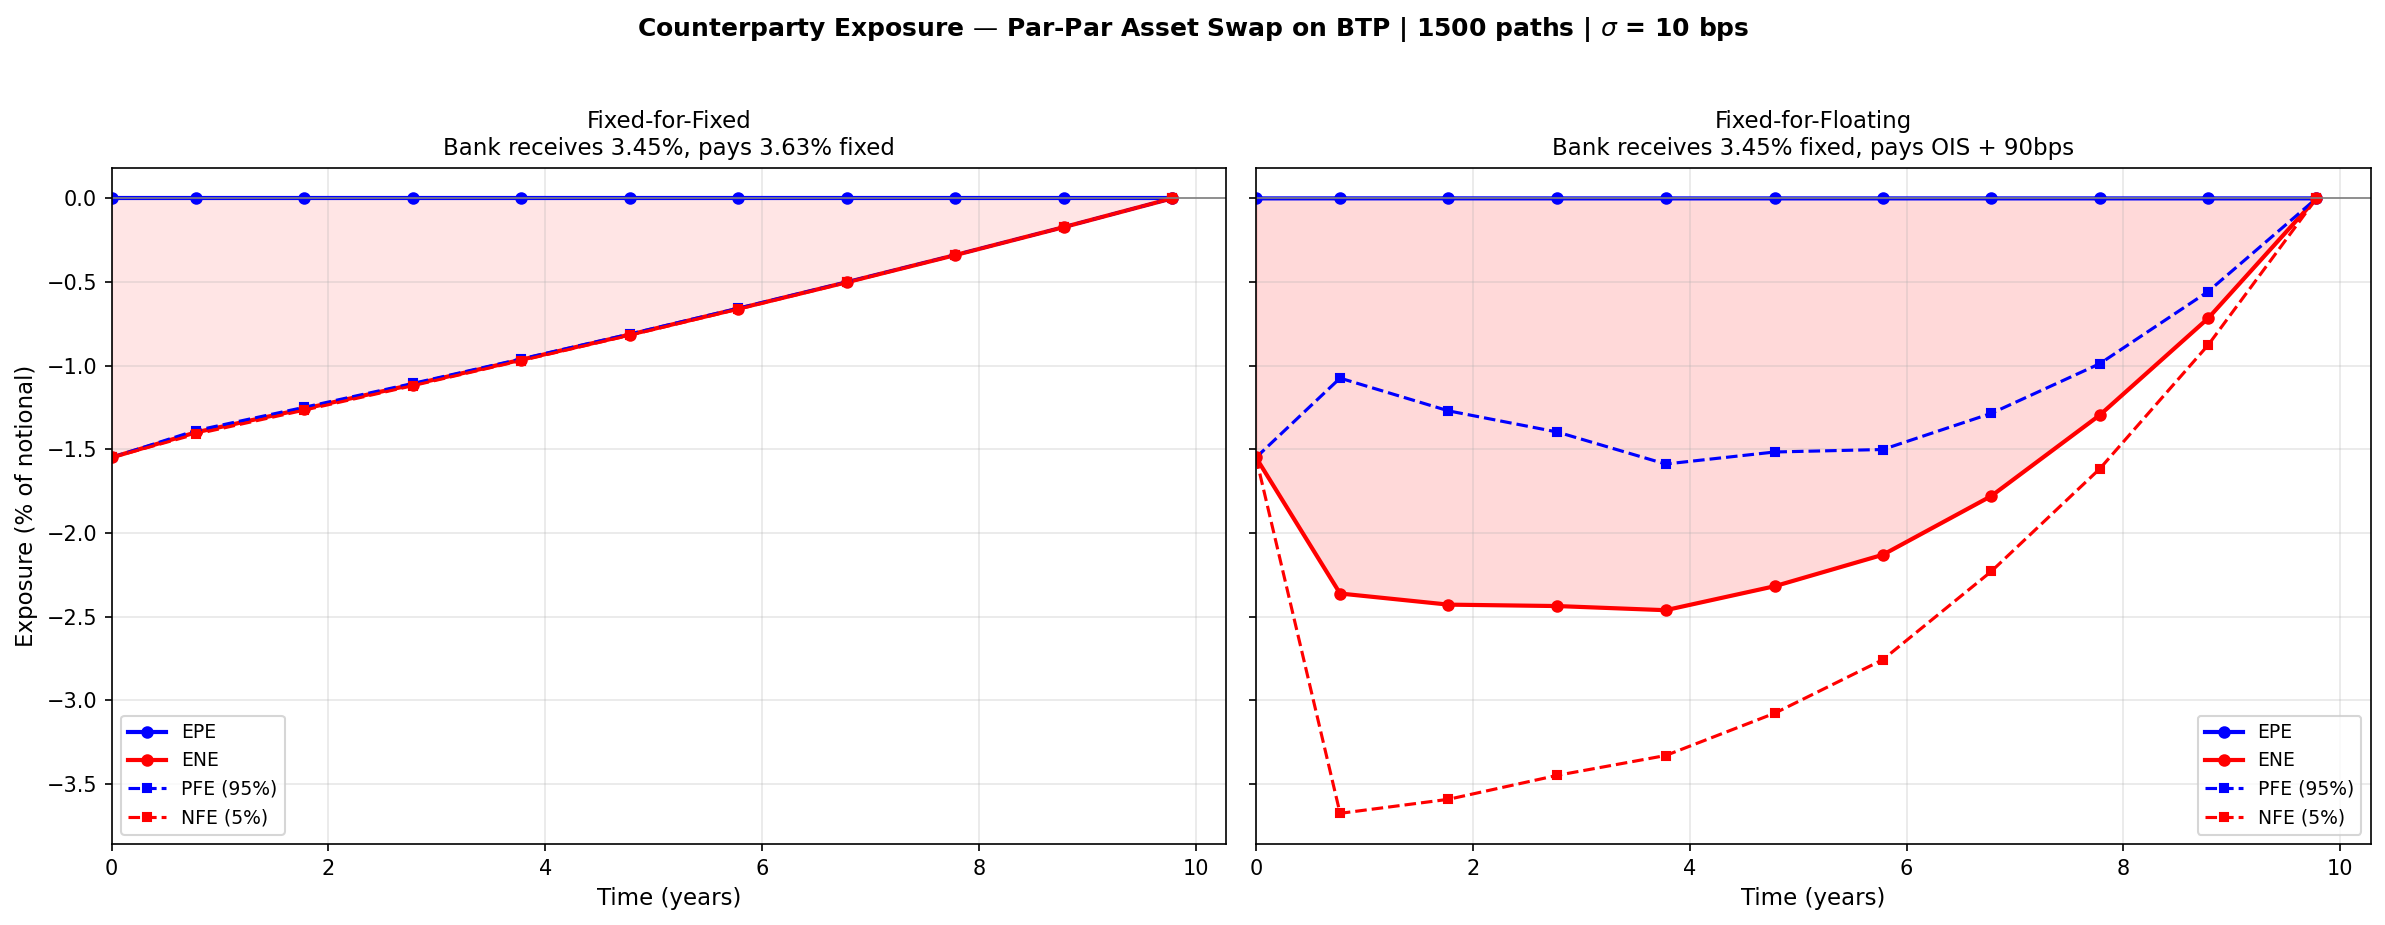
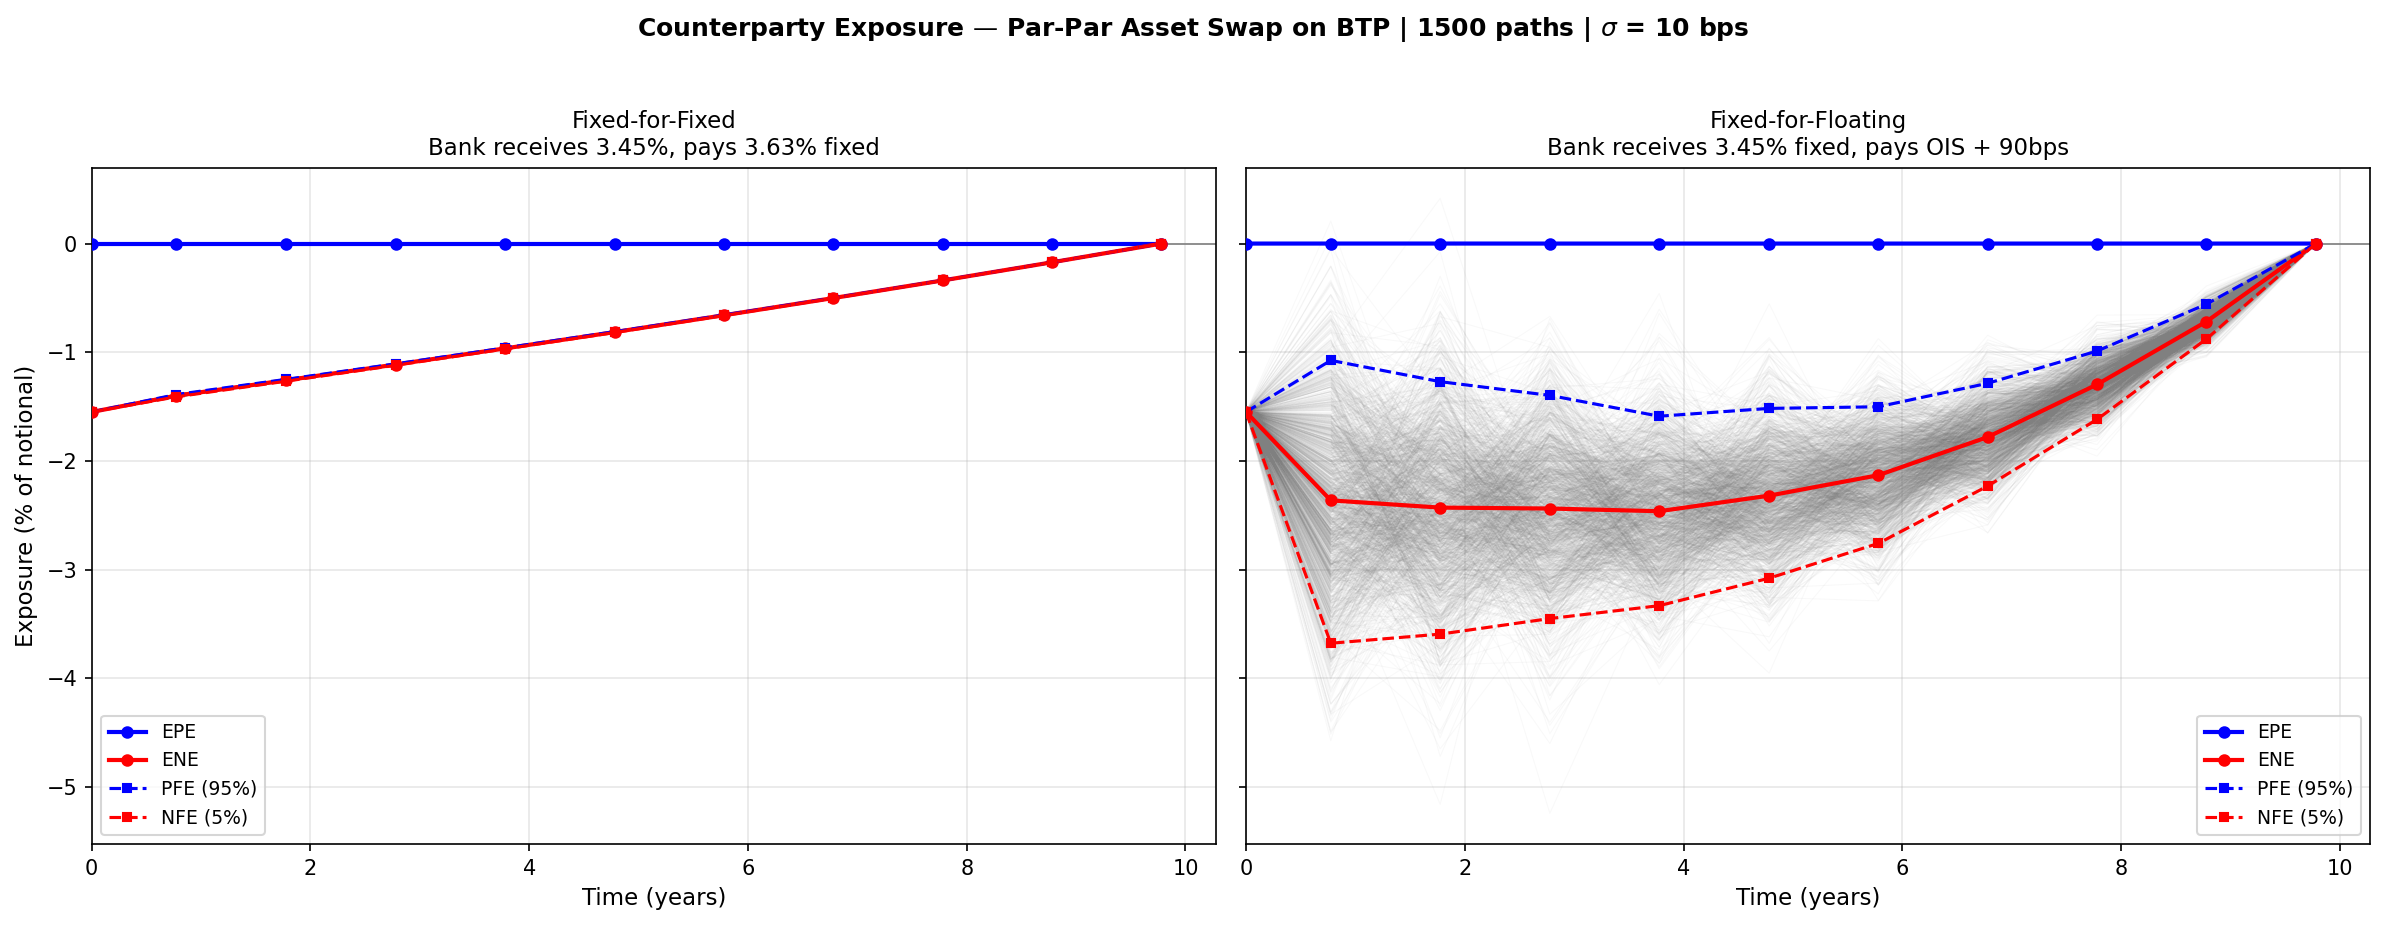
Add MC path scatter to exposure plots
Overlay all 1500 individual MtM paths in light grey (alpha=0.05)
behind the EPE/ENE/PFE/NFE profiles. Shows the full distribution:
fix-fix paths form a tight band, fix-float paths fan out widely.

https://claude.ai/code/session_01C9YQZrd7hzpYqkqkU8KkPY

diff --git a/Exposure_ASW.py b/Exposure_ASW.py
@@ -300,13 +300,13 @@ print(f"             rates up   → ENE < 0 (floating leg costs more).")
 fig, (ax1, ax2) = plt.subplots(1, 2, figsize=(16, 6), sharey=True)
 
 # ---- Left: Fixed-for-Fixed ----
-ax1.plot(tenor_years, EPE_ff, "b-o",  lw=2, ms=5, label="EPE")
-ax1.plot(tenor_years, ENE_ff, "r-o",  lw=2, ms=5, label="ENE")
-ax1.plot(tenor_years, PFE_ff, "b--s", lw=1.5, ms=4, label="PFE (95%)")
-ax1.plot(tenor_years, NFE_ff, "r--s", lw=1.5, ms=4, label="NFE (5%)")
+for p in range(N_PATHS):
+    ax1.plot(tenor_years, mtm_fixfix[p, :], color="grey", alpha=0.05, lw=0.5)
+ax1.plot(tenor_years, EPE_ff, "b-o",  lw=2, ms=5, label="EPE", zorder=5)
+ax1.plot(tenor_years, ENE_ff, "r-o",  lw=2, ms=5, label="ENE", zorder=5)
+ax1.plot(tenor_years, PFE_ff, "b--s", lw=1.5, ms=4, label="PFE (95%)", zorder=5)
+ax1.plot(tenor_years, NFE_ff, "r--s", lw=1.5, ms=4, label="NFE (5%)", zorder=5)
 ax1.axhline(0, color="grey", lw=0.8)
-ax1.fill_between(tenor_years, 0, EPE_ff, alpha=0.1, color="blue")
-ax1.fill_between(tenor_years, ENE_ff, 0, alpha=0.1, color="red")
 ax1.set_xlabel("Time (years)", fontsize=11)
 ax1.set_ylabel("Exposure (% of notional)", fontsize=11)
 ax1.set_title(
@@ -319,13 +319,13 @@ ax1.grid(True, alpha=0.3)
 ax1.set_xlim(0, tenor_years[-1] + 0.5)
 
 # ---- Right: Fixed-for-Floating ----
-ax2.plot(tenor_years, EPE_fl, "b-o",  lw=2, ms=5, label="EPE")
-ax2.plot(tenor_years, ENE_fl, "r-o",  lw=2, ms=5, label="ENE")
-ax2.plot(tenor_years, PFE_fl, "b--s", lw=1.5, ms=4, label="PFE (95%)")
-ax2.plot(tenor_years, NFE_fl, "r--s", lw=1.5, ms=4, label="NFE (5%)")
+for p in range(N_PATHS):
+    ax2.plot(tenor_years, mtm_fixflt[p, :], color="grey", alpha=0.05, lw=0.5)
+ax2.plot(tenor_years, EPE_fl, "b-o",  lw=2, ms=5, label="EPE", zorder=5)
+ax2.plot(tenor_years, ENE_fl, "r-o",  lw=2, ms=5, label="ENE", zorder=5)
+ax2.plot(tenor_years, PFE_fl, "b--s", lw=1.5, ms=4, label="PFE (95%)", zorder=5)
+ax2.plot(tenor_years, NFE_fl, "r--s", lw=1.5, ms=4, label="NFE (5%)", zorder=5)
 ax2.axhline(0, color="grey", lw=0.8)
-ax2.fill_between(tenor_years, 0, EPE_fl, alpha=0.15, color="blue")
-ax2.fill_between(tenor_years, ENE_fl, 0, alpha=0.15, color="red")
 ax2.set_xlabel("Time (years)", fontsize=11)
 ax2.set_title(
     "Fixed-for-Floating\n"
